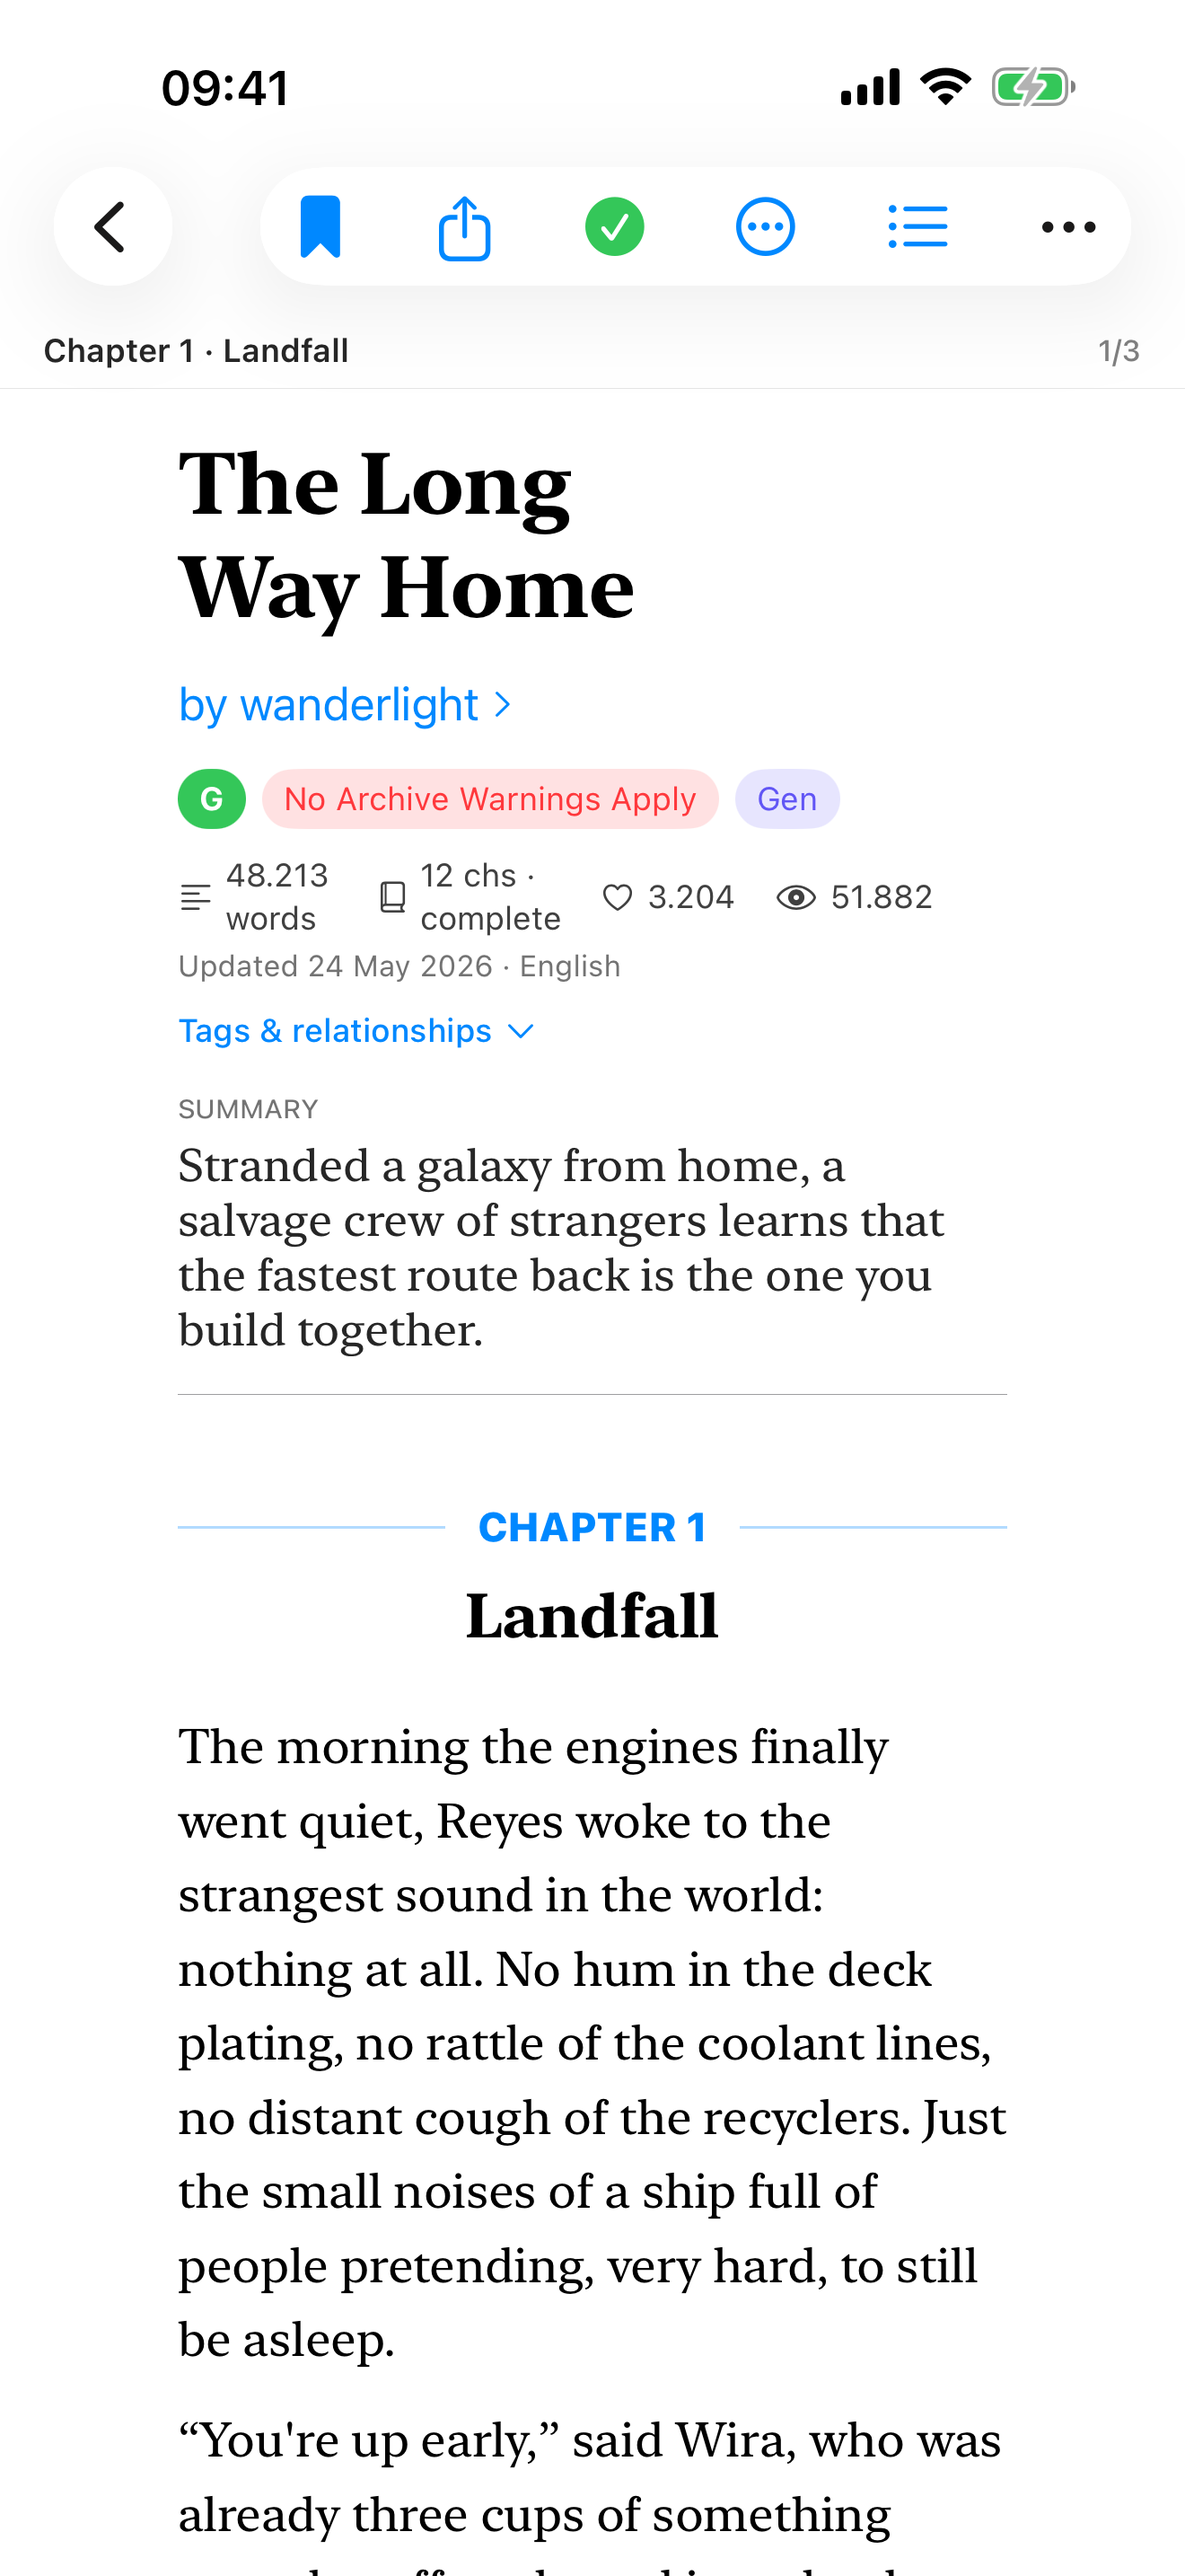
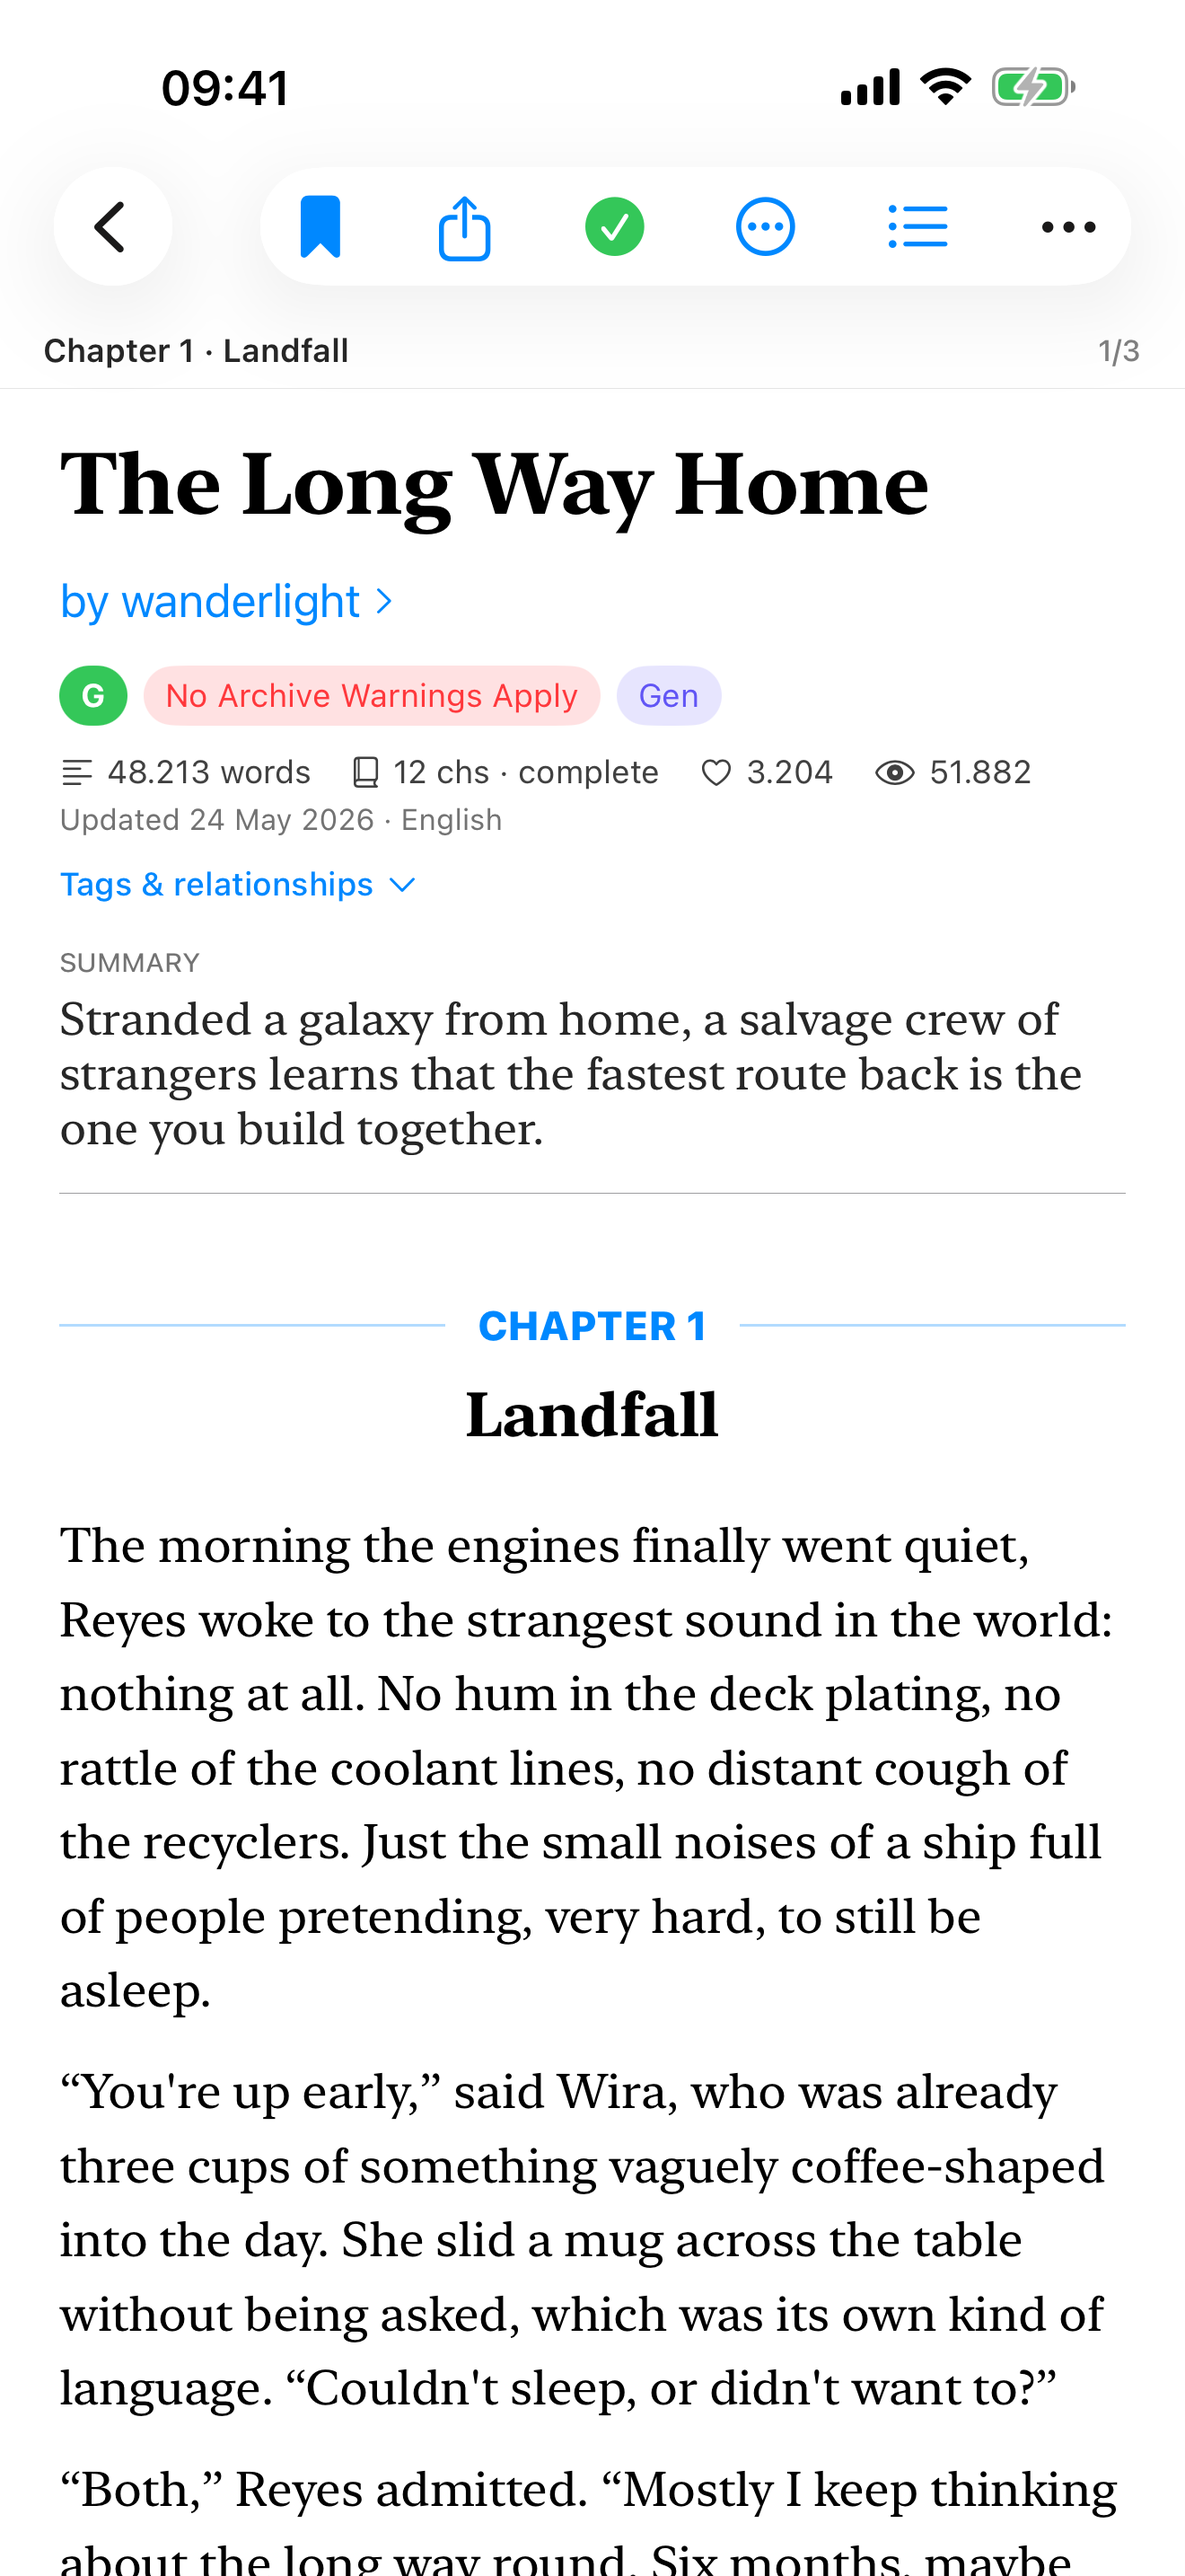
Widen iPhone demo reader screenshots

diff --git a/Fanficly/FanficlyApp.swift b/Fanficly/FanficlyApp.swift
@@ -15,9 +15,11 @@ struct FanficlyApp: App {
     init() {
         if Self.isDemoMode {
             let defaults = UserDefaults.standard
+            let demoReaderWidthKey = ReaderProfile.deviceKey("reader.widthPercent")
             defaults.removeObject(forKey: "reader.theme")
             defaults.removeObject(forKey: "reader.fontFamily")
             defaults.removeObject(forKey: "reader.width")
+            defaults.removeObject(forKey: "reader.widthPercent")
             defaults.removeObject(forKey: "reader.mode")
             defaults.removeObject(forKey: "reader.fontSizePt")
             defaults.removeObject(forKey: "reader.lineSpacingPt")
@@ -30,7 +32,7 @@ struct FanficlyApp: App {
             let deviceKeys = [
                 ReaderProfile.deviceKey("reader.theme"),
                 ReaderProfile.deviceKey("reader.fontFamily"),
-                ReaderProfile.deviceKey("reader.widthPercent"),
+                demoReaderWidthKey,
                 ReaderProfile.deviceKey("reader.mode"),
                 ReaderProfile.deviceKey("reader.fontSizePt"),
                 ReaderProfile.deviceKey("reader.lineSpacingPt"),
@@ -41,6 +43,12 @@ struct FanficlyApp: App {
             for key in deviceKeys {
                 defaults.removeObject(forKey: key)
             }
+            
+            #if !targetEnvironment(macCatalyst)
+            if UIDevice.current.userInterfaceIdiom == .phone {
+                defaults.set(90.0, forKey: demoReaderWidthKey)
+            }
+            #endif
         }
     }
 
